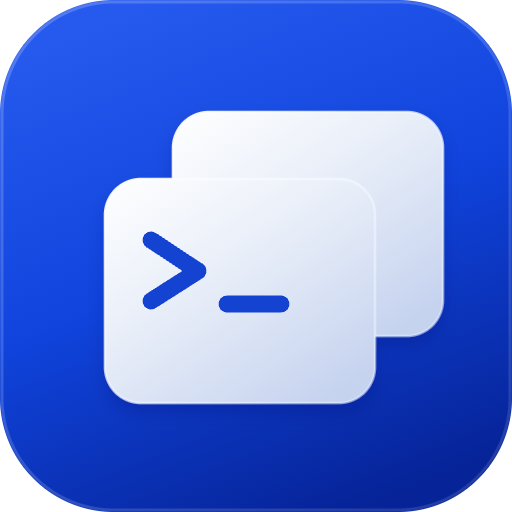
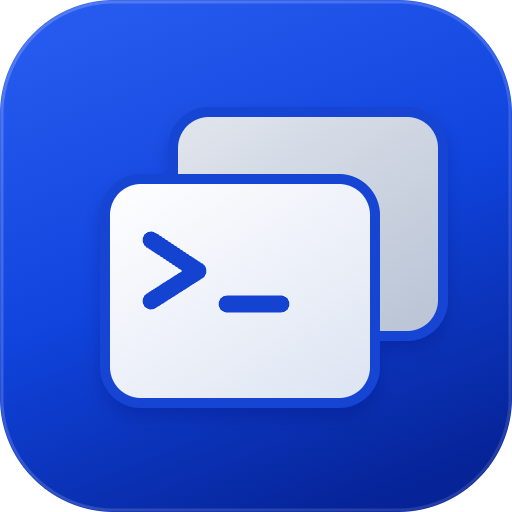
fix: separate terminal panes with a blue contour and cool grey rear

Changed region(s): [[0.1875, 0.1875, 0.875, 0.8125]]

diff --git a/public/index.html b/public/index.html
@@ -9,8 +9,8 @@
     <meta name="apple-mobile-web-app-capable" content="yes">
     <meta name="apple-mobile-web-app-title" content="Agent Workbench">
     <title>Agent Collaboration Workbench</title>
-    <link rel="icon" type="image/png" href="/app-icon-192.png?v=balanced-blue-20261113">
-    <link rel="apple-touch-icon" href="/app-icon-192.png?v=balanced-blue-20261113">
+    <link rel="icon" type="image/png" href="/app-icon-192.png?v=separated-silver-20261114">
+    <link rel="apple-touch-icon" href="/app-icon-192.png?v=separated-silver-20261114">
     <link rel="manifest" href="/manifest.webmanifest">
     <link rel="stylesheet" href="/styles.css">
   </head>
@@ -19,7 +19,7 @@
     <div class="app-shell">
       <aside class="project-sidebar" id="project-sidebar" aria-label="Project navigation">
         <div class="brand">
-          <button type="button" class="brand-mark" id="toggle-project-sidebar-collapse" aria-label="Collapse project menu" title="Collapse"><img class="brand-icon" src="/app-icon-192.png?v=balanced-blue-20261113" alt="" width="36" height="36"></button>
+          <button type="button" class="brand-mark" id="toggle-project-sidebar-collapse" aria-label="Collapse project menu" title="Collapse"><img class="brand-icon" src="/app-icon-192.png?v=separated-silver-20261114" alt="" width="36" height="36"></button>
           <div class="brand-copy">
             <strong>Agent Workbench</strong>
             <span>Collaboration Console</span>

diff --git a/docs/ARCHITECTURE.md b/docs/ARCHITECTURE.md
@@ -815,3 +815,5 @@ Question-answer history requires a loaded matching question call before renderin
 Brand assets use `assets/app-icon.svg` as their source: matching blue-and-silver stacked terminal windows for the header, favicon and installed app. PNG exports are 512 and 192 pixels; versioned icon URLs and the existing static-file fingerprint refresh PWA assets.
 
 Timer action receipts retain exact retries from the pre-action namespace. Learned Claude model windows are cached only for the same native session and model, with a bounded in-memory session cache; no other session supplies the window.
+
+The stacked-terminal icon uses a blue separating contour and a slightly darker cool-grey rear window to keep both panes distinct at small sizes. SVG and PNG exports remain shared across page and installed-app surfaces.
